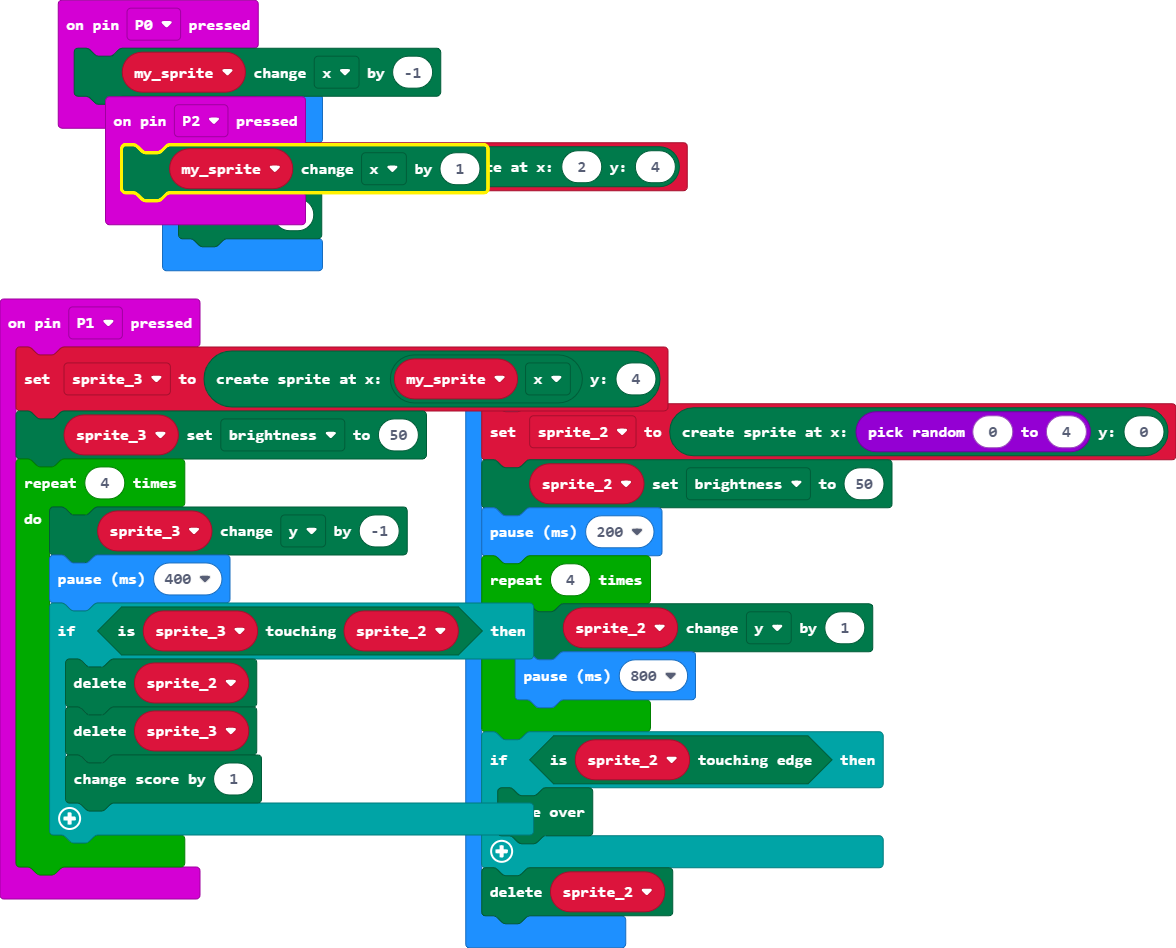
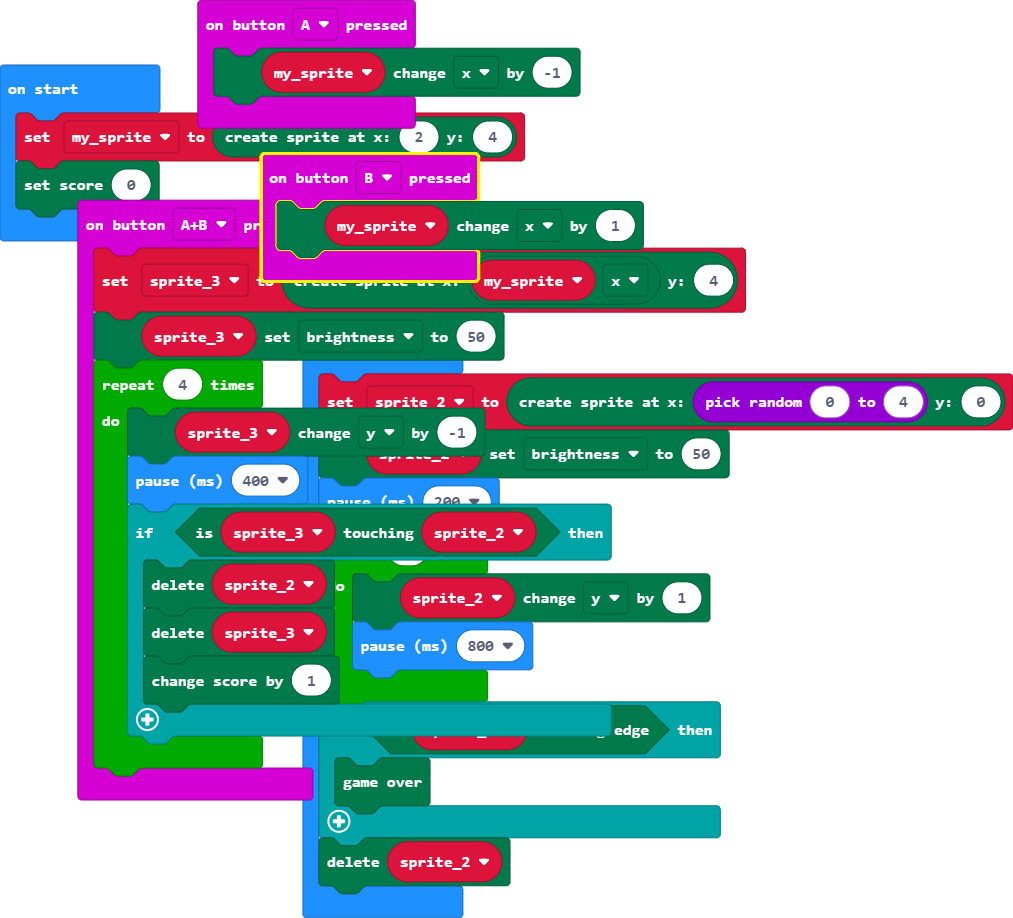
Update main.blocks, main.ts

diff --git a/main.ts b/main.ts
@@ -1,10 +1,7 @@
-input.onPinPressed(TouchPin.P0, function () {
+input.onButtonPressed(Button.A, function () {
     my_sprite.change(LedSpriteProperty.X, -1)
 })
-input.onPinPressed(TouchPin.P2, function () {
-    my_sprite.change(LedSpriteProperty.X, 1)
-})
-input.onPinPressed(TouchPin.P1, function () {
+input.onButtonPressed(Button.AB, function () {
     sprite_3 = game.createSprite(my_sprite.get(LedSpriteProperty.X), 4)
     sprite_3.set(LedSpriteProperty.Brightness, 50)
     for (let index = 0; index < 4; index++) {
@@ -16,6 +13,9 @@ input.onPinPressed(TouchPin.P1, function () {
             game.addScore(1)
         }
     }
+})
+input.onButtonPressed(Button.B, function () {
+    my_sprite.change(LedSpriteProperty.X, 1)
 })
 let sprite_2: game.LedSprite = null
 let sprite_3: game.LedSprite = null
